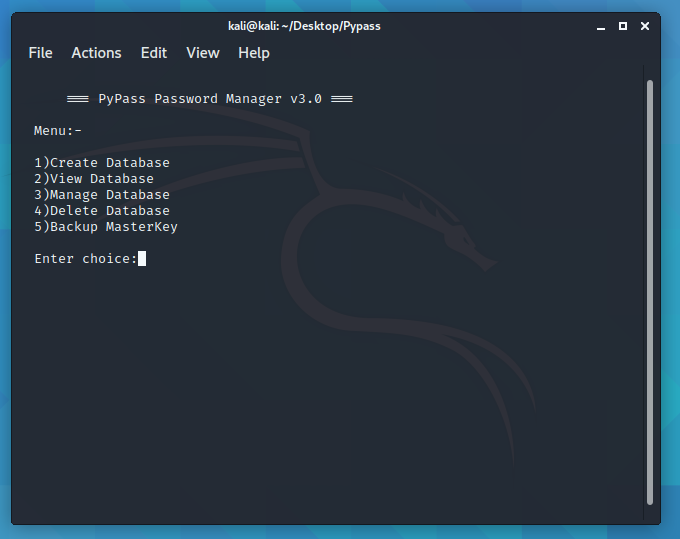
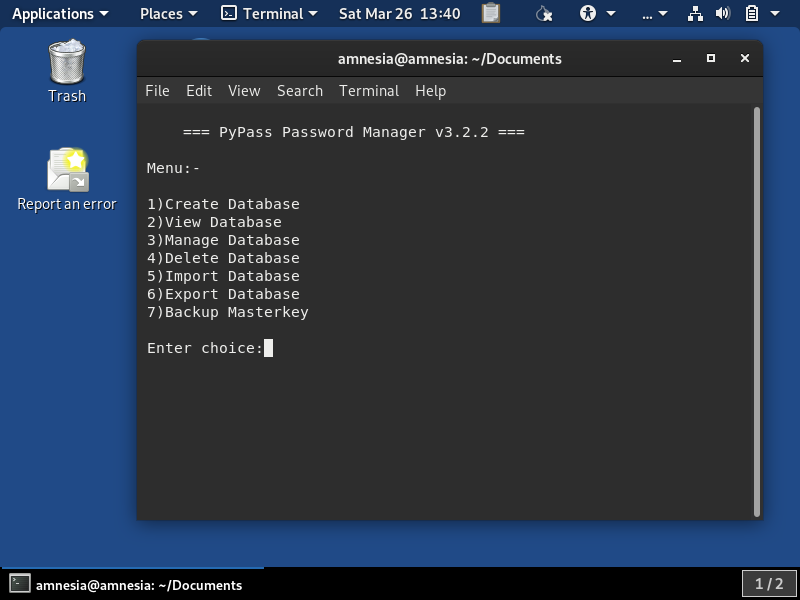
Release version 3.2.2
->BugFix: Git clone installation not working
-> Improve password security
-> Security audit done by independent developers and project review board.

diff --git a/PyPass/interface.py b/PyPass/interface.py
@@ -11,8 +11,8 @@ lock = 0
 try:
     import os
     import sys
-    import PyPass.pysecret as s
-    import PyPass.functions as f
+    import pysecret as s
+    import functions as f
 except ImportError:
     print(' Critical Error: Required Modules Not found!\n')
     x=input(' Press any key to continue...')

diff --git a/PyPass/functions.py b/PyPass/functions.py
@@ -8,7 +8,7 @@ import csv
 import time
 
 try:
-    import PyPass.pysecret as p
+    import pysecret as p
 except ImportError:
     print(" Critical Error : Required Modules Not Found !!!")
 

diff --git a/PyPass/__init__.py b/PyPass/__init__.py
@@ -1,3 +1,3 @@
-import PyPass.interface
-import PyPass.functions
-import PyPass.pysecret
+import interface
+import functions
+import pysecret

diff --git a/PyPass/__main__.py b/PyPass/__main__.py
@@ -1,2 +1,2 @@
-import PyPass.interface
-PyPass.interface.main()
+import interface
+interface.main()

diff --git a/README.md b/README.md
@@ -1,4 +1,4 @@
-# PyPass Password Manager v3.2
+# PyPass Password Manager v3.2.2
 
 <p>An Experimental ,simple ,secure and trustable password Manager developed in Python3.</p>
 <img src="https://github.com/Anish-M-code/PyPass/blob/master/screenshots/1.cleaned.png">
